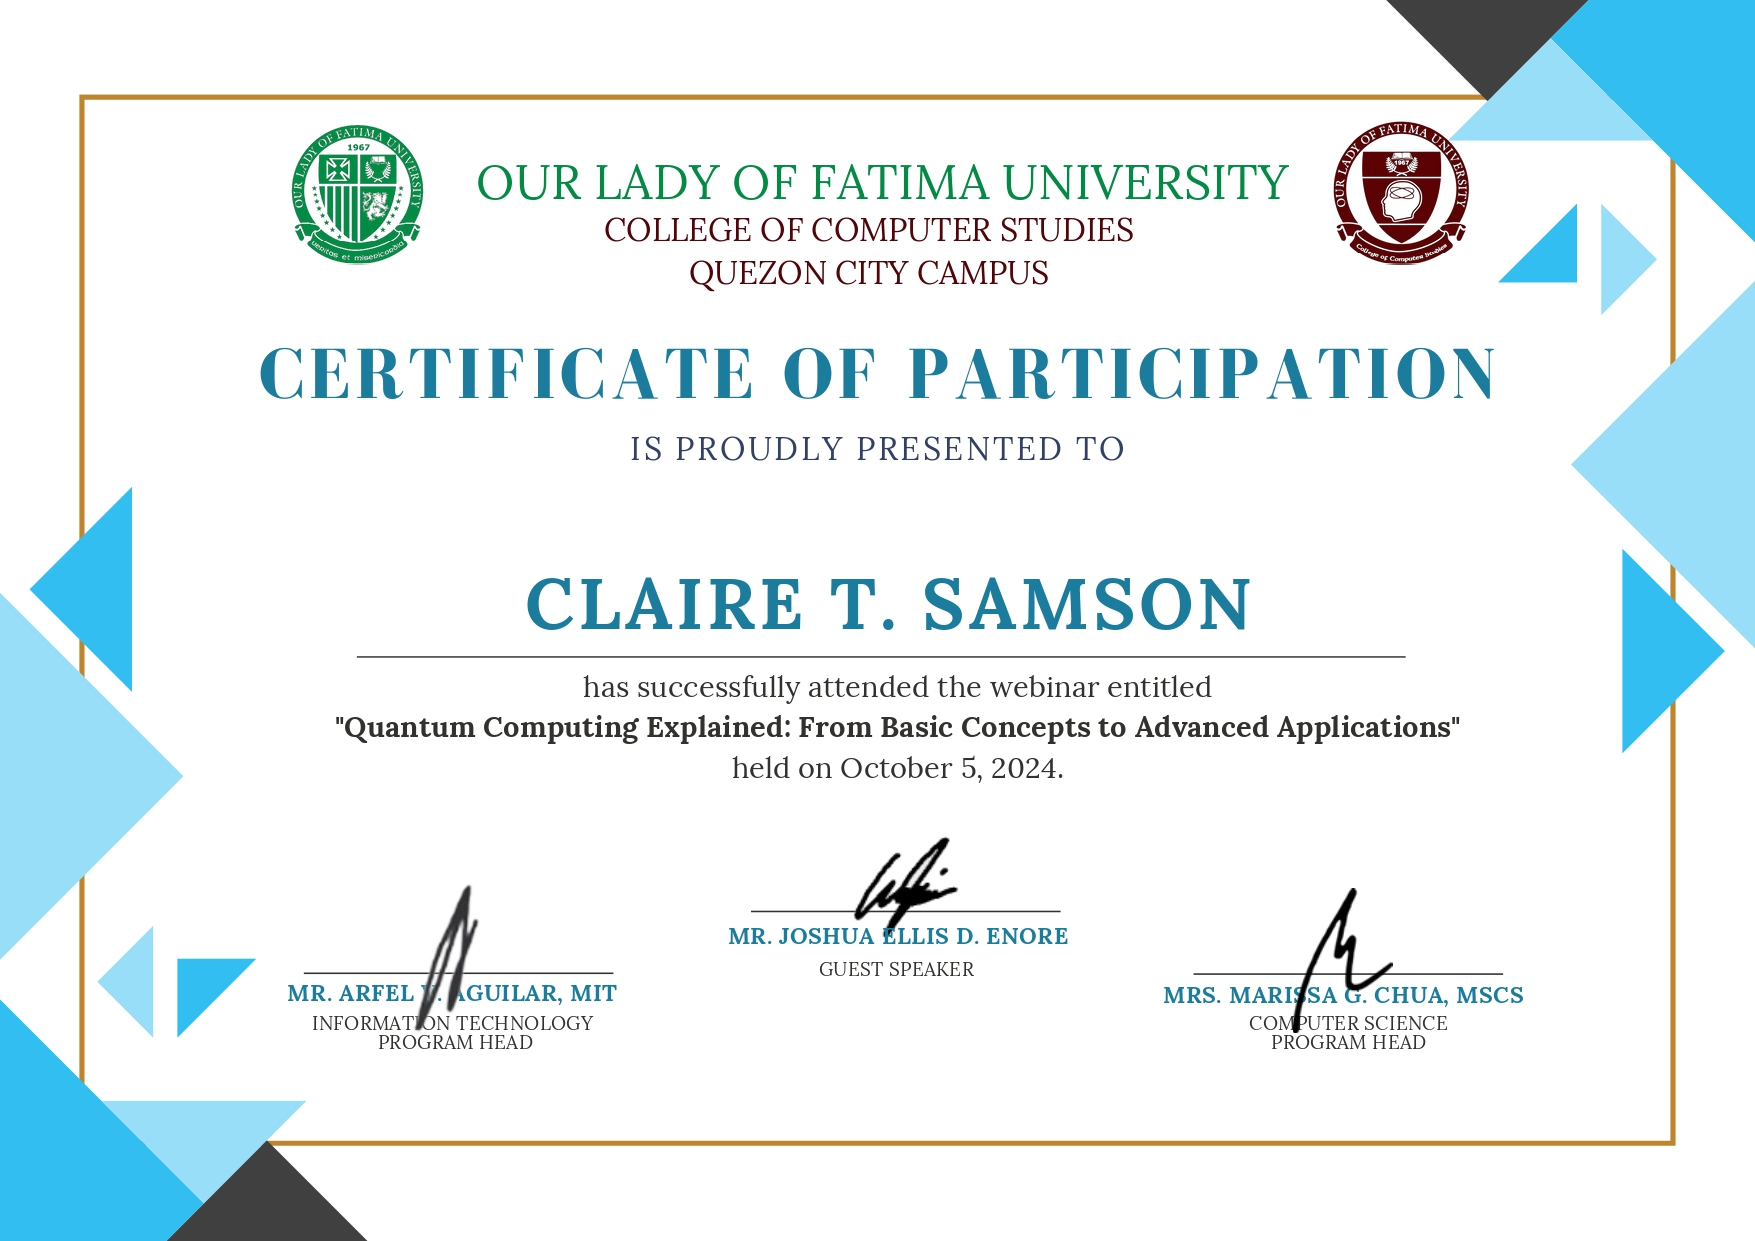
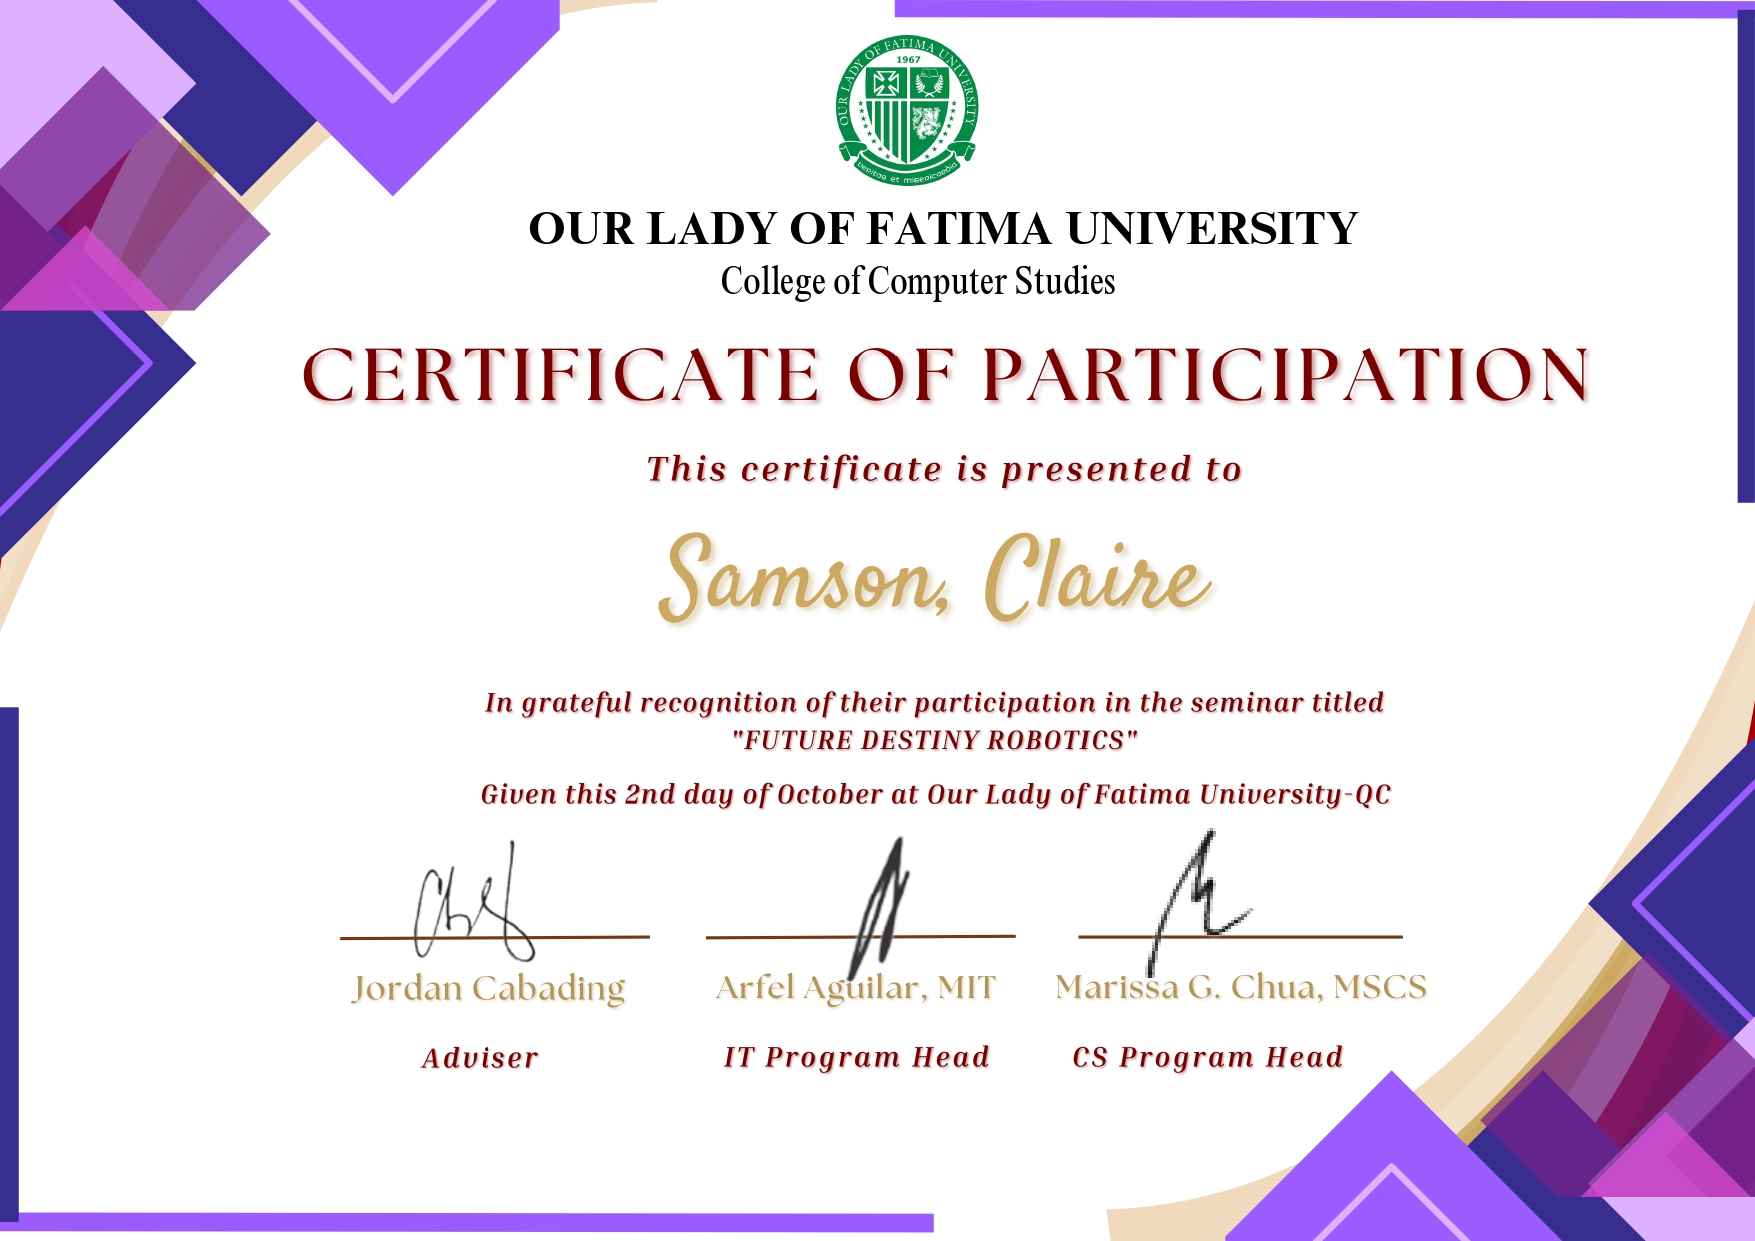
feat: update code

diff --git a/include/certificate.php b/include/certificate.php
@@ -134,13 +134,13 @@ Feel free to explore the proof of my dedication below. Every badge, every lesson
 
   <!-- GALLERY SECTIONS -->
   <div id="2021" class="gallery-section active">
-    <img src="/img/certificates/21.jpg" alt="Certificate" onclick="openFullscreen(this.src)">
+    <img src="/img/certificates/21.jpg" alt="Certificate 21" onclick="openFullscreen(this.src)">
   </div>
 
   <div id="2022" class="gallery-section">
-    <img src="/img/certificates/22.jpg" alt="Certificate" onclick="openFullscreen(this.src)">
-    <img src="/img/certificates/25.jpg" alt="Certificate" onclick="openFullscreen(this.src)">
-    <img src="/img/certificates/26.jpg" alt="Certificate" onclick="openFullscreen(this.src)">
+    <img src="/img/certificates/22.jpg" alt="Certificate 22" onclick="openFullscreen(this.src)">
+    <img src="/img/certificates/25.jpg" alt="Certificate 25" onclick="openFullscreen(this.src)">
+    <img src="/img/certificates/26.jpg" alt="Certificate 26" onclick="openFullscreen(this.src)">
   </div>
 
    <div id="2023" class="gallery-section">
@@ -152,28 +152,29 @@ Feel free to explore the proof of my dedication below. Every badge, every lesson
   </div>
 
   <div id="2024" class="gallery-section">
-    <img src="/img/certificates/6.jpg" alt="Certificate 1"onclick="openFullscreen(this.src)"  />
-    <img src="/img/certificates/9.jpg" alt="Certificate 2" onclick="openFullscreen(this.src)" />
-    <img src="/img/certificates/10.jpg" alt="Certificate 3" onclick="openFullscreen(this.src)" />
-    <img src="/img/certificates/12.jpg" alt="Certificate 4" onclick="openFullscreen(this.src)" />
-    <img src="/img/certificates/13.jpg" alt="Certificate 5" onclick="openFullscreen(this.src)" />
-    <img src="/img/certificates/14.jpg" alt="Certificate 6" onclick="openFullscreen(this.src)" />
-    <img src="/img/certificates/15.png" alt="Certificate 7" onclick="openFullscreen(this.src)" />
-    <img src="/img/certificates/16.png" alt="Certificate 8" onclick="openFullscreen(this.src)" />
-    <img src="/img/certificates/17.png" alt="Certificate 9" onclick="openFullscreen(this.src)" />
-    <img src="/img/certificates/18.png" alt="Certificate 10" onclick="openFullscreen(this.src)" />
-    <img src="/img/certificates/19.png" alt="Certificate 11" onclick="openFullscreen(this.src)" />
-    <img src="/img/certificates/20.png" alt="Certificate 12" onclick="openFullscreen(this.src)" />
-    <img src="/img/certificates/24.png" alt="Certificate 13" onclick="openFullscreen(this.src)" />
-    <img src="/img/certificates/27.jpg" alt="Certificate 14" onclick="openFullscreen(this.src)" />
-    <img src="/img/certificates/28.jpg" alt="Certificate 15" onclick="openFullscreen(this.src)" />
+    <img src="/img/certificates/6.jpg" alt="Certificate 6"onclick="openFullscreen(this.src)"  />
+    <img src="/img/certificates/9.jpg" alt="Certificate 9" onclick="openFullscreen(this.src)" />
+    <img src="/img/certificates/10.jpg" alt="Certificate 10" onclick="openFullscreen(this.src)" />
+    <img src="/img/certificates/12.jpg" alt="Certificate 12" onclick="openFullscreen(this.src)" />
+    <img src="/img/certificates/13.jpg" alt="Certificate 13" onclick="openFullscreen(this.src)" />
+    <img src="/img/certificates/14.jpg" alt="Certificate 14" onclick="openFullscreen(this.src)" />
+    <img src="/img/certificates/15.jpg" alt="Certificate 15" onclick="openFullscreen(this.src)" />
+    <img src="/img/certificates/16.jpg" alt="Certificate 16" onclick="openFullscreen(this.src)" />
+    <img src="/img/certificates/17.png" alt="Certificate 17" onclick="openFullscreen(this.src)" />
+    <img src="/img/certificates/18.jpg" alt="Certificate 18" onclick="openFullscreen(this.src)" />
+    <img src="/img/certificates/19.png" alt="Certificate 19" onclick="openFullscreen(this.src)" />
+    <img src="/img/certificates/20.png" alt="Certificate 20" onclick="openFullscreen(this.src)" />
+    <img src="/img/certificates/24.jpg" alt="Certificate 24" onclick="openFullscreen(this.src)" />
+    <img src="/img/certificates/23.jpg" alt="Certificate 23" onclick="openFullscreen(this.src)" />
+    <img src="/img/certificates/27.jpg" alt="Certificate 27" onclick="openFullscreen(this.src)" />
+    <img src="/img/certificates/28.jpg" alt="Certificate 28" onclick="openFullscreen(this.src)" />
   </div>
 
   <div id="2025" class="gallery-section">
-    <img src="/img/certificates/7.jpg" alt="Certificate 1" onclick="openFullscreen(this.src)"  />
-    <img src="/img/certificates/8.jpg" alt="Certificate 2"onclick="openFullscreen(this.src)"  />
-    <img src="/img/certificates/11.jpg" alt="Certificate 3" onclick="openFullscreen(this.src)" />
-        <img src="/img/certificates/29.jpg" alt="Certificate 3" onclick="openFullscreen(this.src)" />
+    <img src="/img/certificates/7.jpg" alt="Certificate 7" onclick="openFullscreen(this.src)"  />
+    <img src="/img/certificates/8.jpg" alt="Certificate 8"onclick="openFullscreen(this.src)"  />
+    <img src="/img/certificates/11.jpg" alt="Certificate 11" onclick="openFullscreen(this.src)" />
+    <img src="/img/certificates/29.jpg" alt="Certificate 29" onclick="openFullscreen(this.src)" />
   </div>
   <!-- Add more years the same way -->
 </div>
@@ -321,6 +322,23 @@ Feel free to explore the proof of my dedication below. Every badge, every lesson
     }
   }
 
+  
+/* 📱 Unique Mobile View (1 large full-width image per row) */
+@media (max-width: 600px) {
+  .gallery-section {
+    flex-direction: column;
+    padding: 15px 15px 60px;
+    gap: 16px;
+  }
+
+  .gallery-section img {
+    width: 100%;
+    height: auto;
+    border-radius: 14px;
+    box-shadow: 0 6px 14px rgba(0, 0, 0, 0.08);
+    object-fit: contain;
+  }
+}
   /* Fullscreen Overlay */
   #fullscreenOverlay {
     position: fixed;

diff --git a/include/graphics.php b/include/graphics.php
@@ -262,6 +262,39 @@ function closeGallery(id) {
 </script>
 <!-- Styles -->
 <style>
+
+
+@media (max-width: 800px) {
+  #meat.folder-gallery .folder-content {
+    width: 95vw;
+    max-height: 85vh;
+    padding: 16px 12px;
+    overflow-y: auto;
+  }
+
+  #meat .folder-images {
+    flex-direction: column;
+    align-items: center;
+    gap: 10px;
+  }
+
+  #meat .folder-images img {
+    width: 80vw;
+    max-width: 100%;
+    height: auto;
+    border-radius: 10px;
+  }
+
+  #meat .close-folder {
+    top: 10px;
+    right: 12px;
+    font-size: 24px;
+    padding: 4px 10px;
+  }
+}
+
+
+
 /* Inventory Specific Styling */
 .inventory-page {
   text-align: center;
@@ -301,6 +334,40 @@ function closeGallery(id) {
   transform: scale(1.05);
 }
 
+/* 🌟 Responsive Adjustments */
+
+/* Tablet */
+@media (max-width: 1024px) {
+  .inventory-preview-img {
+    max-width: 30vw;
+  }
+
+  #inventory .folder-images img {
+    width: 70vw;
+  }
+}
+
+/* 📱 Mobile View */
+@media (max-width: 500px) {
+  .inventory-text {
+    font-size: 1rem;
+    padding: 0 10px;
+  }
+
+  .inventory-preview-img {
+    max-width: 80%;
+    margin: 10px auto;
+    border-radius: 14px;
+  }
+
+  #inventory .folder-images img {
+    width: 90%;
+    max-width: none;
+    margin: 0 auto;
+    display: block;
+    border-radius: 12px;
+  }
+}
 
 .folder-gallery {
   display: none; /* Hidden by default */

diff --git a/include/home/hero-section.php b/include/home/hero-section.php
@@ -24,7 +24,7 @@
             text-shadow: 2px 2px 4px black;
     ">
       From Imagination to Reality,<br>
-      Bringing Art to Life.
+      Bringing Art to Life
     </h1>
     <a href="#explore" style="
       display: inline-block;
